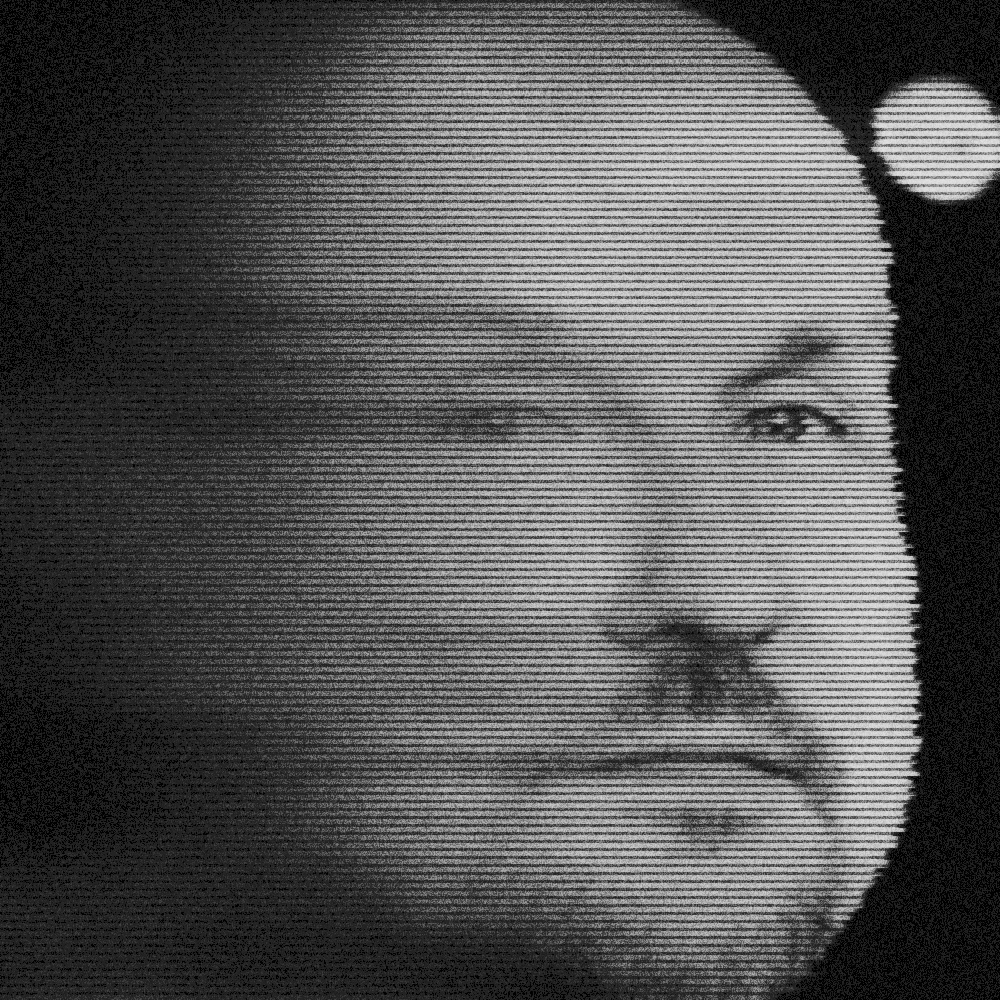
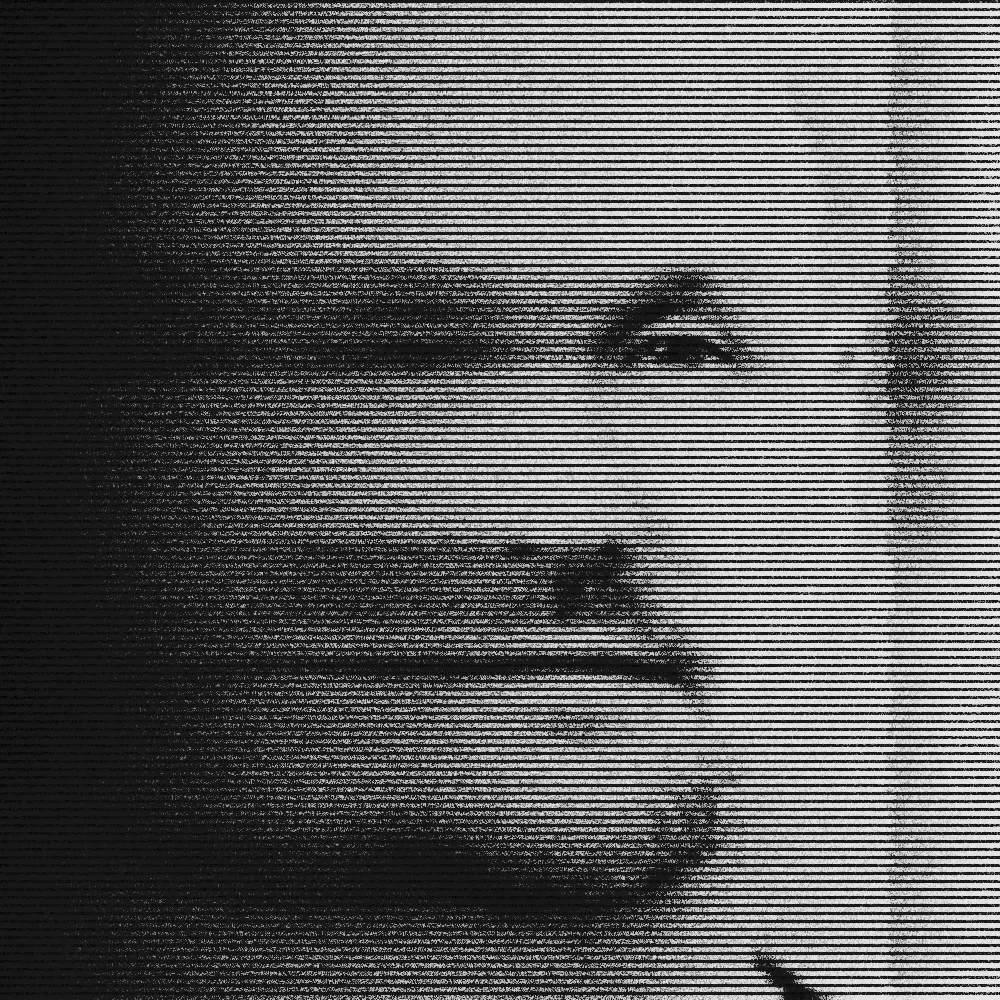
feat(site): exact card-size tone match; new Jeff Craven photo
- scripts/portrait-tone-match.py: measures at card size (200px), exact
  piecewise-linear LUT, refined over 4 passes (ffmpeg spline curves overshot
  on flat photos, and full-size percentiles are skewed by grain).
- Jeff Craven: new photo (owner's pick), LS=0.6. Paul Johnson re-rendered.

Claude-Session: https://claude.ai/code/session_01PWtAhM9MkYBQfJQadkaEkN

diff --git a/scripts/portrait-tone-match.py b/scripts/portrait-tone-match.py
@@ -1,0 +1,54 @@
+#!/usr/bin/env python3
+"""Tone-match a treated artist portrait to the existing UE artist set.
+
+Measures luminance percentiles at CARD size (200px, where grain averages out —
+the size the targets were measured at), builds an exact piecewise-linear LUT
+onto the targets, applies it at full size, and refines a few passes.
+Targets: p5/p25/p50/p75/p95 = 21/34/68/137/192 (8 existing portraits, 2026-11-18).
+usage: python3 -I portrait-tone-match.py <in.png> <out.webp>
+"""
+import subprocess, sys
+
+TARGET = [21, 34, 68, 137, 192]
+QS = (.05, .25, .50, .75, .95)
+SIZE = 1000
+
+def ff(args, data=None):
+    return subprocess.run(['ffmpeg', '-loglevel', 'error', *args], input=data, capture_output=True, check=True).stdout
+
+def card_percentiles(raw):
+    small = ff(['-f', 'rawvideo', '-pix_fmt', 'gray', '-s', f'{SIZE}x{SIZE}', '-i', '-',
+                '-vf', 'scale=200:200:flags=area', '-f', 'rawvideo', '-pix_fmt', 'gray', '-'], raw)
+    v = sorted(small); n = len(v)
+    return [v[int(q * (n - 1))] for q in QS]
+
+def lut_for(src, dst):
+    xs, ys = [0], [0]
+    for x, y in zip(src + [255], dst + [min(255, dst[-1] + 30)]):
+        if x > xs[-1]:
+            xs.append(x); ys.append(y)
+        else:
+            ys[-1] = y
+    out = bytearray(256)
+    for i in range(256):
+        k = 1
+        while k < len(xs) - 1 and i > xs[k]:
+            k += 1
+        x0, x1, y0, y1 = xs[k - 1], xs[k], ys[k - 1], ys[k]
+        out[i] = max(0, min(255, round(y0 + (y1 - y0) * (i - x0) / max(1, x1 - x0))))
+    return bytes(out)
+
+def main(inp, outp):
+    base = ff(['-i', inp, '-vf', f'scale={SIZE}:{SIZE},format=gray', '-f', 'rawvideo', '-pix_fmt', 'gray', '-'])
+    goal = list(TARGET)
+    raw = base
+    for _ in range(4):  # refine: grain makes card-size percentiles respond non-linearly
+        raw = base.translate(lut_for(card_percentiles(base), goal))
+        got = card_percentiles(raw)
+        goal = [max(0, min(255, g + (t - r))) for g, t, r in zip(goal, TARGET, got)]
+        goal = [max(goal[i], goal[i - 1] + 1) if i else goal[i] for i in range(len(goal))]
+    print('card percentiles', card_percentiles(raw), 'target', TARGET, file=sys.stderr)
+    ff(['-y', '-f', 'rawvideo', '-pix_fmt', 'gray', '-s', f'{SIZE}x{SIZE}', '-i', '-', '-c:v', 'libwebp', '-quality', '86', outp], raw)
+
+if __name__ == '__main__':
+    main(sys.argv[1], sys.argv[2])

diff --git a/ARTIST_PORTRAITS.md b/ARTIST_PORTRAITS.md
@@ -17,7 +17,7 @@ same treatment before they are added.
    `img/about/<slug>/portrait.webp`, commit the WebP, merge, and deploy the site.
 5. Check the DJs page and the artist page next to two existing artists.
 
-Tuning: `CURVE` (tone), `SM` (trail length), `SH` (trail shift), `HB`/`BL`/`BR` (left blur), `LS` (left shade, for evenly lit photos). The script ends with a tone match (TONE=1, default) that maps each portrait onto the existing set's black floor, midtones and highlights. The defaults are tuned on
+Tuning: `CURVE` (tone), `SM` (trail length), `SH` (trail shift), `HB`/`BL`/`BR` (left blur), `LS` (left shade, for evenly lit photos). The script ends with a tone match (`scripts/portrait-tone-match.py`, TONE=1 default): it measures the portrait at card size and maps it onto the existing set's black floor, midtones and highlights (p5/p25/p50/p75/p95 = 21/34/68/137/192). The defaults are tuned on
 a low-key photo (dark background); a bright photo may need a darker `CURVE` (see the script).
 
 The DJs page lists artists alphabetically by name.
@@ -27,4 +27,4 @@ The DJs page lists artists alphabetically by name.
 | Artist | Photo source | Rights |
 |---|---|---|
 | PAUL JOHNSON | XLR8R, 2021 (`E7-Gde0WQAc3lj1-2-1024x683.jpeg`) | owner's pick; press photo, not licensed |
-| JEFF CRAVEN | Large Music (`jeff2020-e1608491085146.jpeg`), crop `330:330:110:51`, `CURVE='0/0 0.3/0.06 0.55/0.36 0.8/0.74 1/0.92' LS=0.7` | owner's pick |
+| JEFF CRAVEN | LinkedIn profile photo (200px), crop `128:128:32:14`, `LS=0.6` | owner's pick |
